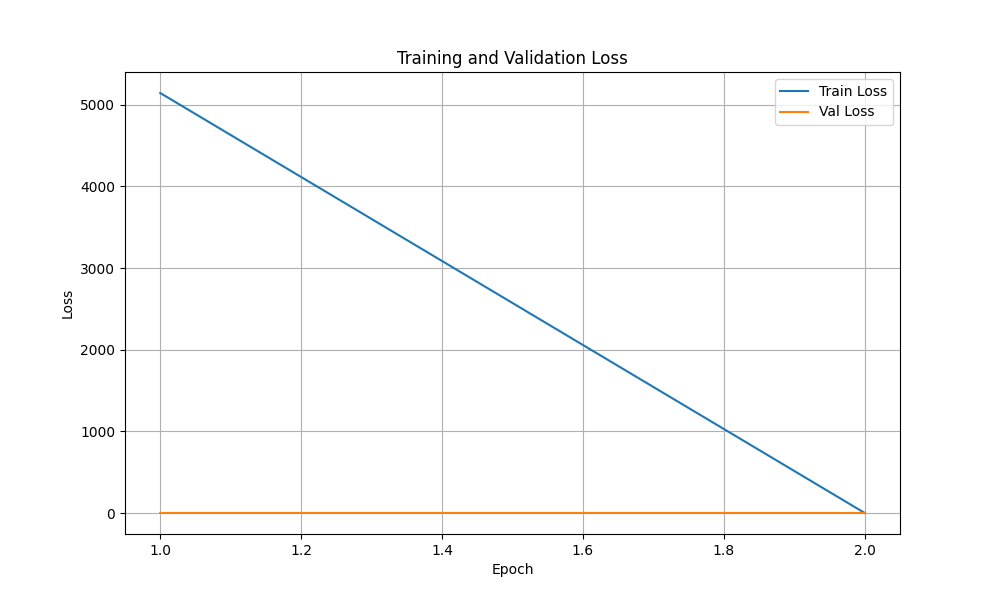
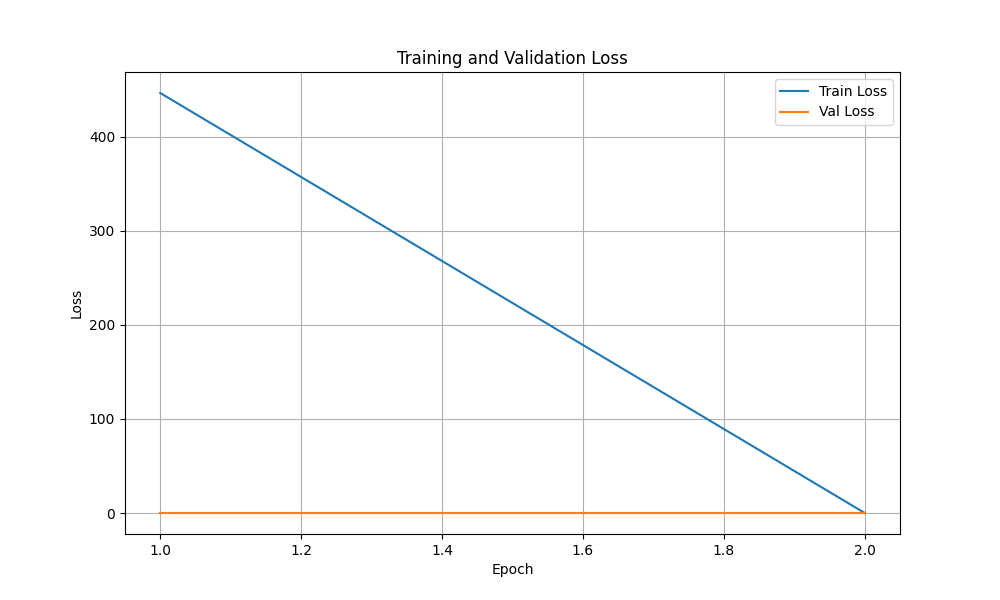
final update Qfree det

diff --git a/test.py b/test.py
@@ -7,8 +7,8 @@ import torch.nn.functional as F
 import matplotlib.pyplot as plt
 
 from model import AFQS, ResNet50Backbone, PositionalEncoding2D, DeformableAttention, TransformerEncoder, MultiHeadAttention, QFreeDet, BoxLocatingPart, DeduplicationPart
-from dataset import train_dataset, train_loader, train_ann_data, transform, train_dir, show_image_with_boxes
-from utils import compute_iou, PoCooLoss, qfreedet_loss, compute_branch_loss
+from dataset import train_dataset, train_loader, train_ann_data, transform, train_dir, show_image_with_boxes, category_id_to_name
+from utils import compute_iou, PoCooLoss, compute_branch_loss
 
 device = torch.device("cuda" if torch.cuda.is_available() else "cpu")
 
@@ -241,38 +241,56 @@ def test_dataset_and_backbone():
     print("Test 3 (Backbone outputs) réussi ✅")
 
     # ----------------------------------------------------------------------
-    # Test 4: Vérification du redimensionnement des bounding boxes (CORRIGÉ)
+    # Test 4: Vérification du redimensionnement des bounding boxes (format centre)
     # ----------------------------------------------------------------------
     # Trouver une image avec annotations
     sample_idx = next((i for i, (_, t) in enumerate(train_dataset) if len(t) > 0), None)
     assert sample_idx is not None, "Aucune image annotée trouvée"
-    
+
     # Récupérer les données originales
     image_id = train_dataset.image_ids[sample_idx]
     image_info = next(img for img in train_ann_data['images'] if img['id'] == image_id)
     original_anns = [copy.deepcopy(ann) for ann in train_ann_data['annotations'] if ann['image_id'] == image_id]
-    
+
     # Charger l'image originale
     original_image = Image.open(os.path.join(train_dir, image_info['file_name'])).convert('RGB')
-    
+
     # Appliquer la transformation avec copie
     transformed_image, transformed_anns = transform(copy.deepcopy(original_image), copy.deepcopy(original_anns))
-    
-    # Vérifier une annotation
-    original_bbox = original_anns[0]['bbox']
-    transformed_bbox = transformed_anns[0]['bbox']
-    
-    # Calcul des ratios théoriques
+
+    # Pour une annotation donnée, récupérer la bbox originale au format COCO et la bbox transformée
+    # La bbox originale est au format [x_min, y_min, w, h]
+    original_bbox = original_anns[0]['bbox']  
+    # Calculer les facteurs d'échelle
     x_scale = 640 / original_image.width
     y_scale = 640 / original_image.height
-    
-    # Vérification avec marge d'erreur
-    assert abs(transformed_bbox[1] - original_bbox[1] * y_scale) < 1e-4, (
-        f"Erreur Y: {transformed_bbox[1]} vs {original_bbox[1] * y_scale} "
-        f"(Original H: {original_image.height}px)"
-    )
-    
-    print("Test 4 (BBox scaling) réussi ✅")
+
+    # Appliquer le redimensionnement sur la bbox originale (toujours en format [x_min, y_min, w, h])
+    scaled_bbox = [
+        original_bbox[0] * x_scale,  # x_min mis à l'échelle
+        original_bbox[1] * y_scale,  # y_min mis à l'échelle
+        original_bbox[2] * x_scale,  # largeur mis à l'échelle
+        original_bbox[3] * y_scale   # hauteur mis à l'échelle
+    ]
+
+    # Convertir la bbox redimensionnée au format centre
+    expected_bbox = [
+        scaled_bbox[0] + scaled_bbox[2] / 2,  # x_center
+        scaled_bbox[1] + scaled_bbox[3] / 2,  # y_center
+        scaled_bbox[2],                     # largeur
+        scaled_bbox[3]                      # hauteur
+    ]
+
+    # Récupérer la bbox transformée
+    transformed_bbox = transformed_anns[0]['bbox']
+
+    # Vérifier que chaque composant est correctement transformé (avec une petite tolérance)
+    for i in range(4):
+        assert abs(transformed_bbox[i] - expected_bbox[i]) < 1e-4, (
+            f"Erreur bbox index {i}: {transformed_bbox[i]} vs {expected_bbox[i]}"
+        )
+
+    print("Test 4 (BBox scaling, format centre) réussi ✅")
 
     # ----------------------------------------------------------------------
     # Test 5: Vérification de la normalisation des images
@@ -313,10 +331,10 @@ def test_visualization():
             if len(sample_indices) == 8:
                 break
     assert len(sample_indices) == 8, "Pas assez d'images avec annotations trouvées"
-    
+
     # Créer une figure pour l'affichage (2 lignes, 4 colonnes)
-    fig, axs = plt.subplots(2, 4, figsize=(14, 7))  # Taille ajustée pour 8 images
-    
+    fig, axs = plt.subplots(2, 4, figsize=(14, 7))
+
     # Afficher chaque image avec ses bounding boxes
     for i, ax in enumerate(axs.flat):
         # Charger l'image et ses annotations
@@ -328,8 +346,9 @@ def test_visualization():
         # Vérifier la présence d'annotations
         assert len(targets) > 0, "Aucune annotation trouvée pour cette image"
         
-        # Afficher l'image avec les bounding boxes
-        show_image_with_boxes(ax, image_tensor, targets, normalized=True)
+        # Afficher l'image avec les bounding boxes (les boxes sont au format centre)
+        # En passant également le mapping pour afficher le nom du label.
+        show_image_with_boxes(ax, image_tensor, targets, normalized=True, category_mapping=category_id_to_name)
         ax.axis('off')
         
         # Vérifier que l'image est correctement dénormalisée
@@ -341,7 +360,6 @@ def test_visualization():
         assert torch.all(denormalized_image >= 0).item(), "Erreur de dénormalisation : valeurs négatives"
         assert torch.all(denormalized_image <= 1).item(), "Erreur de dénormalisation : valeurs > 1"
     
-    # Afficher la figure
     plt.tight_layout()
     plt.show()
     
@@ -424,7 +442,7 @@ def test_multihead_attention():
         with torch.no_grad():
             somme = attn_weights.sum(dim=-1)  # (B, nhead, N)
             ones = torch.ones_like(somme)
-            assert torch.all(torch.isclose(somme, ones, atol=1e-3)), (
+            assert torch.all(torch.isclose(somme, ones, atol=2e-3)), (
                 f"Erreur : Différence max = {torch.abs(somme - ones).max().item()}"
             )
 
@@ -484,7 +502,7 @@ def test_deformable_attention():
         with torch.no_grad():
             attn = layer.attn_pred(x_spatial).view(B, nhead, num_points, H, W)
             attn_softmax = F.softmax(attn, dim=2)
-            assert torch.allclose(attn_softmax.sum(dim=2), torch.ones_like(attn_softmax.sum(dim=2)), atol=1e-3), (
+            assert torch.allclose(attn_softmax.sum(dim=2), torch.ones_like(attn_softmax.sum(dim=2)), atol=2e-3), (
                 "Les poids d'attention ne sont pas normalisés (softmax incorrect)."
             )
 

diff --git a/dataset.py b/dataset.py
@@ -2,9 +2,7 @@ import torchvision
 from torch.utils.data import DataLoader, Subset
 from torch.utils.data._utils.collate import default_collate
 import matplotlib.pyplot as plt
-import matplotlib.patches as patches
 from PIL import Image
-import numpy as np
 import json
 import os
 import torch
@@ -172,36 +170,39 @@ categories = coco_data['categories']
 category_id_to_name = {category['id']: category['name'] for category in categories}
 
 # Fonction d'affichage avec les nouvelles coordonnées
-def show_image_with_boxes(ax, image_tensor, targets, normalized=True):
-    
-    # Dénormalisation si nécessaire
+def show_image_with_boxes(ax, image_tensor, targets, normalized=True, category_mapping=None):
+    """
+    Affiche une image avec ses bounding boxes.
+    Les bounding boxes sont supposées être au format centré (cx, cy, w, h).
+
+    Args:
+        ax (matplotlib.axes.Axes): Axe sur lequel dessiner.
+        image_tensor (Tensor): Image au format [3, H, W].
+        targets (list): Liste d'annotations contenant au moins les clés 'bbox' et 'category_id'.
+        normalized (bool): Si True, l'image est dénormalisée avant affichage.
+        category_mapping (dict, optionnel): Mapping de category_id vers nom (exemple : category_id_to_name).
+    """
+    # Si l'image est normalisée, la dénormaliser
     if normalized:
-        mean = torch.tensor([0.485, 0.456, 0.406]).view(3, 1, 1)
-        std = torch.tensor([0.229, 0.224, 0.225]).view(3, 1, 1)
-        image = image_tensor * std + mean  # Dénormalisation
-    else:
-        image = image_tensor
-    
-    # Conversion du tensor en image PIL
-    image = image.permute(1, 2, 0).numpy()  # Utiliser la variable `image` dénormalisée
-    image = np.clip(image, 0, 1)  # S'assurer que les valeurs sont dans [0, 1]
-    image = (image * 255).astype(np.uint8)
-    ax.imshow(image)
+        mean = torch.tensor([0.485, 0.456, 0.406]).view(3,1,1)
+        std = torch.tensor([0.229, 0.224, 0.225]).view(3,1,1)
+        image_tensor = image_tensor * std + mean
 
-    # Dessin des boîtes redimensionnées
+    # Convertir en numpy pour l'affichage (H, W, C)
+    image_np = image_tensor.permute(1, 2, 0).cpu().numpy()
+    ax.imshow(image_np)
+
+    # Parcourir les annotations et dessiner les bounding boxes
     for target in targets:
-        bbox = target['bbox']
-        category_id = target['category_id']
-        class_name = category_id_to_name.get(category_id, f"Unknown ({category_id})")
-
-        # Création du rectangle
-        rect = patches.Rectangle(
-            (bbox[0], bbox[1]),
-            bbox[2],
-            bbox[3],
-            linewidth=1,
-            edgecolor='r',
-            facecolor='none'
-        )
+        bbox = target['bbox']  # format : [cx, cy, w, h]
+        cx, cy, w, h = bbox
+        # Conversion en format coin supérieur gauche
+        x_min = cx - w / 2
+        y_min = cy - h / 2
+        # Création d'un rectangle rouge
+        rect = plt.Rectangle((x_min, y_min), w, h, fill=False, edgecolor='red', linewidth=2)
         ax.add_patch(rect)
-        ax.text(bbox[0], bbox[1], class_name, color='white', backgroundcolor='red', fontsize=8)
+        # Ajout du label si le mapping est fourni
+        if category_mapping is not None and 'category_id' in target:
+            label = category_mapping.get(target['category_id'], str(target['category_id']))
+            ax.text(x_min, y_min, label, color='white', fontsize=10, backgroundcolor='red')

diff --git a/utils.py b/utils.py
@@ -150,6 +150,27 @@ class PoCooLoss(nn.Module):
         loss = loss_pos.sum() + loss_neg.sum()
         return loss / B  # normalisation par le batch
 
+class FocalLoss(nn.Module):
+    def __init__(self, alpha=0.25, gamma=2.0, reduction="mean"):
+        super(FocalLoss, self).__init__()
+        self.alpha = alpha
+        self.gamma = gamma
+        self.reduction = reduction
+        self.bce = nn.BCELoss(reduction="none")
+    
+    def forward(self, inputs, targets):
+        # inputs et targets ont la même forme : [B, M, num_classes]
+        bce_loss = self.bce(inputs, targets)
+        pt = torch.where(targets == 1, inputs, 1 - inputs)
+        focal_loss = self.alpha * (1 - pt) ** self.gamma * bce_loss
+        
+        if self.reduction == "mean":
+            return focal_loss.mean()
+        elif self.reduction == "sum":
+            return focal_loss.sum()
+        else:
+            return focal_loss
+
 # --- Perte sur une branche donnée (BLP ou DP) ---
 
 def compute_branch_loss(pred_boxes, pred_scores, gt_boxes, gt_labels, img_size,
@@ -187,11 +208,11 @@ def compute_branch_loss(pred_boxes, pred_scores, gt_boxes, gt_labels, img_size,
     # On définit le masque positif sur la base d’un seuil IoU de 0.5
     pos_mask = (matched_iou > 0.5).float()  # [B, M]
 
-    # -- Perte de classification BCE --
-    bce_loss_fn = nn.BCELoss(reduction='none')
+    # -- Perte focale --
+    focal_loss = FocalLoss()
     # Pour les positifs, la cible est matched_gt_labels ; pour les négatifs, zéro.
-    loss_cls_pos = bce_loss_fn(pred_scores, matched_gt_labels) * pos_mask.unsqueeze(-1)
-    loss_cls_neg = bce_loss_fn(pred_scores, torch.zeros_like(pred_scores)) * (1 - pos_mask).unsqueeze(-1)
+    loss_cls_pos = focal_loss(pred_scores, matched_gt_labels) * pos_mask.unsqueeze(-1)
+    loss_cls_neg = focal_loss(pred_scores, torch.zeros_like(pred_scores)) * (1 - pos_mask).unsqueeze(-1)
     loss_cls = (loss_cls_pos.sum() + loss_cls_neg.sum()) / B
 
     # -- Perte de régression L1 (uniquement sur les positifs) --

diff --git a/model.py b/model.py
@@ -4,15 +4,13 @@ import torchvision
 import torch.nn.functional as F
 import math
 
-from config import params
-
 class AFQS(nn.Module):
     def __init__(self, 
-                 threshold=params["AFQS_threshold"], 
-                 max_pool_size=params["AFQS_max_pool_size"], 
+                 threshold=0.5, 
+                 max_pool_size=100, 
                  num_classes=80, 
                  feature_dim=256,
-                 tau=params["AFQS_temperature"]):  # température pour la relaxation
+                 tau=0.1):  # température pour la relaxation
         super().__init__()
         self.S = threshold
         self.tau = tau
@@ -57,7 +55,7 @@ class AFQS(nn.Module):
                 valid_indices = torch.where(hard_mask[b] > 0)[0]
                 num_valid = len(valid_indices)
                 
-                # Sélection des tokens valides (utilise le hard_mask pour la sélection effective)
+                # Sélection des tokens valides
                 selected = encoder_tokens[b, valid_indices] if num_valid > 0 else torch.zeros((0, D), device=encoder_tokens.device)
                 
                 padding_needed = N_query_b - num_valid
@@ -71,7 +69,6 @@ class AFQS(nn.Module):
                     else:
                         padding_tokens = torch.zeros((0, D), device=encoder_tokens.device)
                     
-                    # Si besoin, compléter avec des zéros
                     remaining_padding = padding_needed - len(padding_tokens)
                     if remaining_padding > 0:
                         zero_pad = torch.zeros((remaining_padding, D), device=encoder_tokens.device)
@@ -79,7 +76,7 @@ class AFQS(nn.Module):
                     
                     aligned = torch.cat([selected, padding_tokens], dim=0)
                 else:
-                    aligned = selected[:N_query_b]  # en cas de surplus (rare)
+                    aligned = selected[:N_query_b]  # en cas de surplus 
                 
                 aligned_queries.append(aligned)
             

diff --git a/train.py b/train.py
@@ -6,7 +6,7 @@ import matplotlib.pyplot as plt
 from tqdm import tqdm
 
 # Importez vos définitions du dataset
-from dataset import train_loader, val_loader, train_ann_data  # (train_ann_data contient les annotations COCO)
+from dataset import train_loader, val_loader
  
 # Importez vos modules de modèle (adaptez les chemins si besoin)
 from model import ResNet50Backbone, TransformerEncoder, AFQS, BoxLocatingPart, DeduplicationPart, QFreeDet
